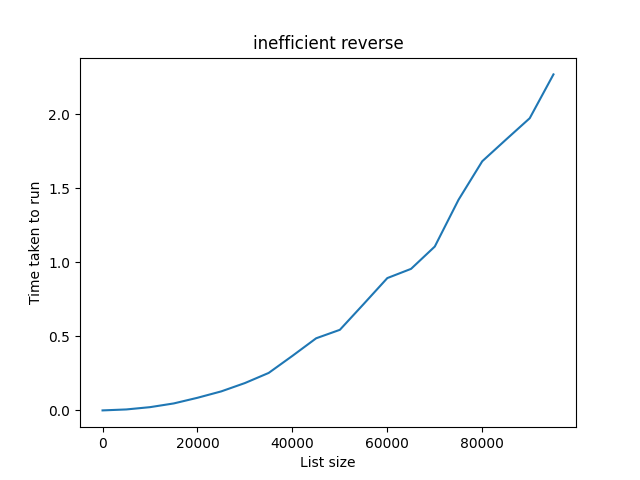
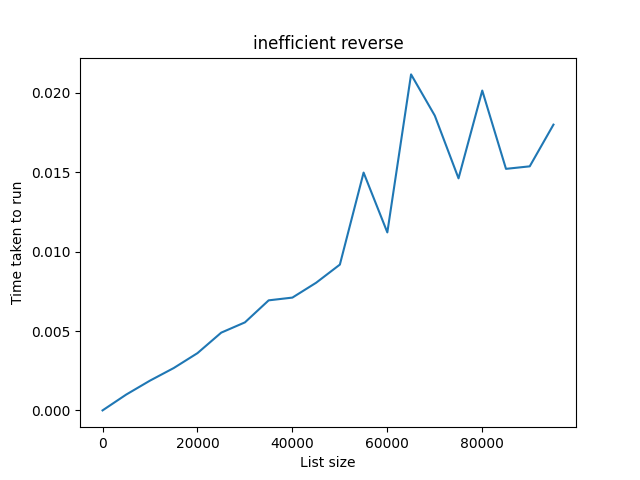
improved reverse algorithm by removing the insert function so its linear rather than quadratic

diff --git a/timer_simple/make_reverse_faster.py b/timer_simple/make_reverse_faster.py
@@ -12,19 +12,29 @@ def inefficient_reverse(test_list):
 
 
 def improved_reverse(test_list):
+    if len(test_list) == 0:
+        return test_list
     newlist = []
     midpoint = len(test_list) // 2
     last_idx = len(test_list) - 1
     i = 0
-    while i < midpoint:
-        newlist[i] = test_list[last_idx - i]
+    while i < len(test_list):
+        # print(i)
+        # print(last_idx)
+        # print(last_idx - i)
+        # print(test_list[last_idx - i])
+        newlist.append(test_list[last_idx - i])
+        i += 1
+    return newlist
 
 
+# improved_reverse([1, 2, 3, 4, 5, 6])
 testData = generateTestDataLists()[0]
 listSizes = generateTestDataLists()[1]
 
-# times = calcTimes(function=myHasDuplicates, data=testData, repetitions=1000)
-times = calcTimes(function=inefficient_reverse, data=testData, repetitions=10)
+times = calcTimes(function=improved_reverse, data=testData, repetitions=50)
+# times = calcTimes(function=inefficient_reverse, data=testData, repetitions=10)
 print(times)
 
-plot_times(listSizes, times, "inefficient reverse")
+# plot_times(listSizes, times, "inefficient reverse")
+plot_times(listSizes, times, "improved reverse")
